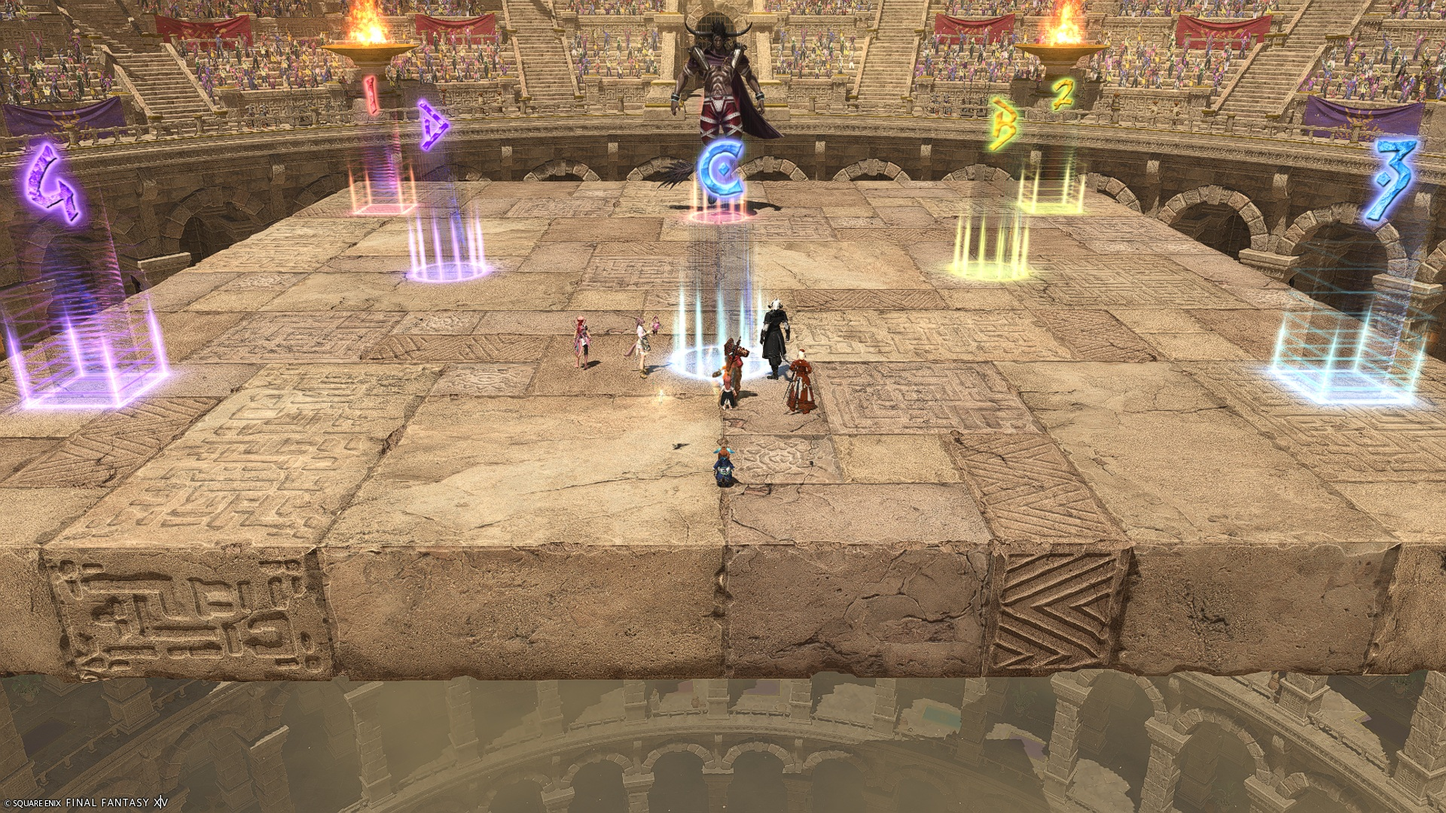
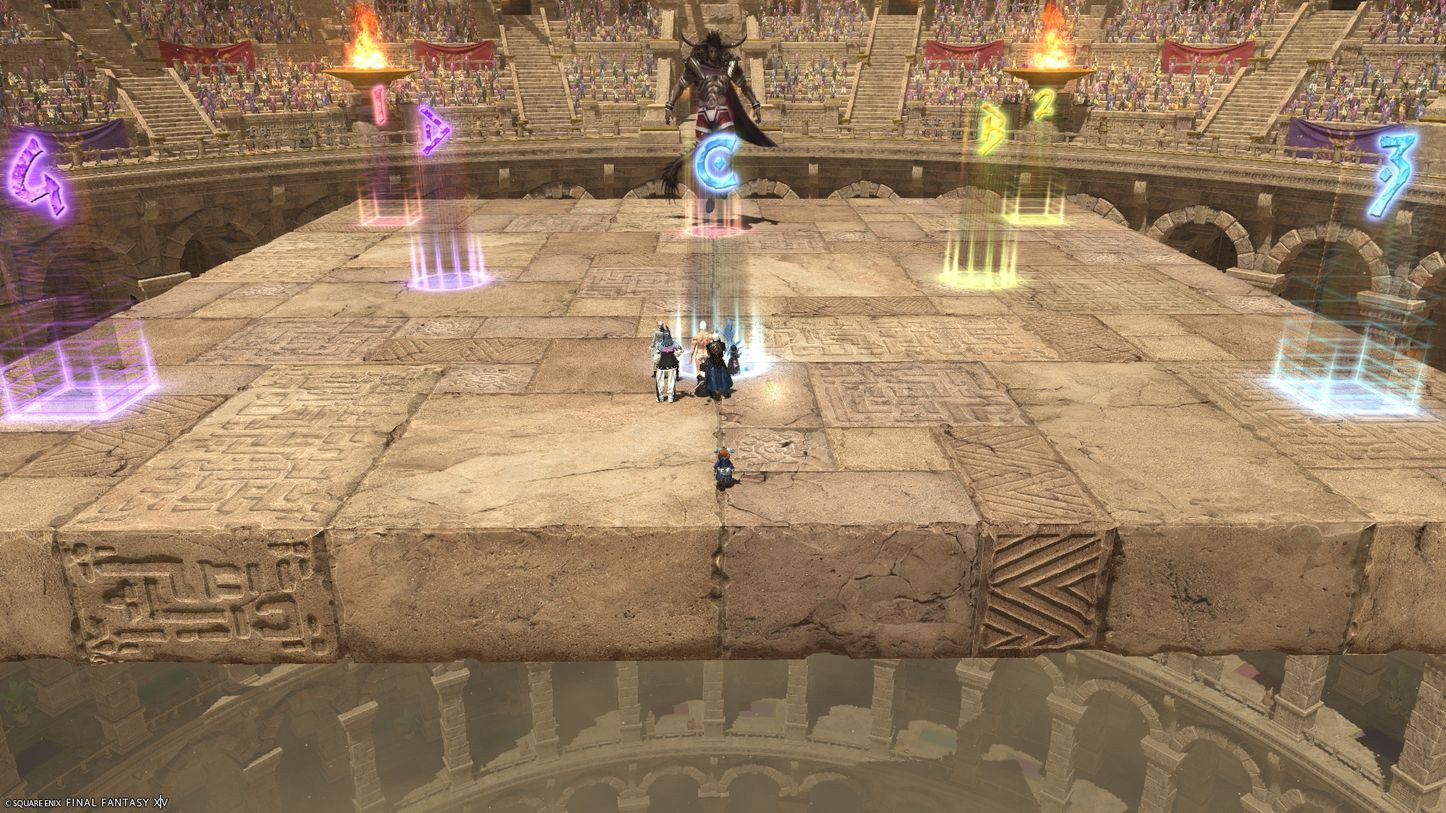
Update markers image

diff --git a/_current/m11s.en.md b/_current/m11s.en.md
@@ -45,8 +45,6 @@ This uses the DXA strat for *Ecliptic Meteor*.
 
 ## Markers
 
-*(N.B: I still need to check these markers.)*
-
 The `1234` markers are for *Majestic Meteor*. In particular, marked players 
 need to stand on the **corner** of the marker (*not* the center!).
 
